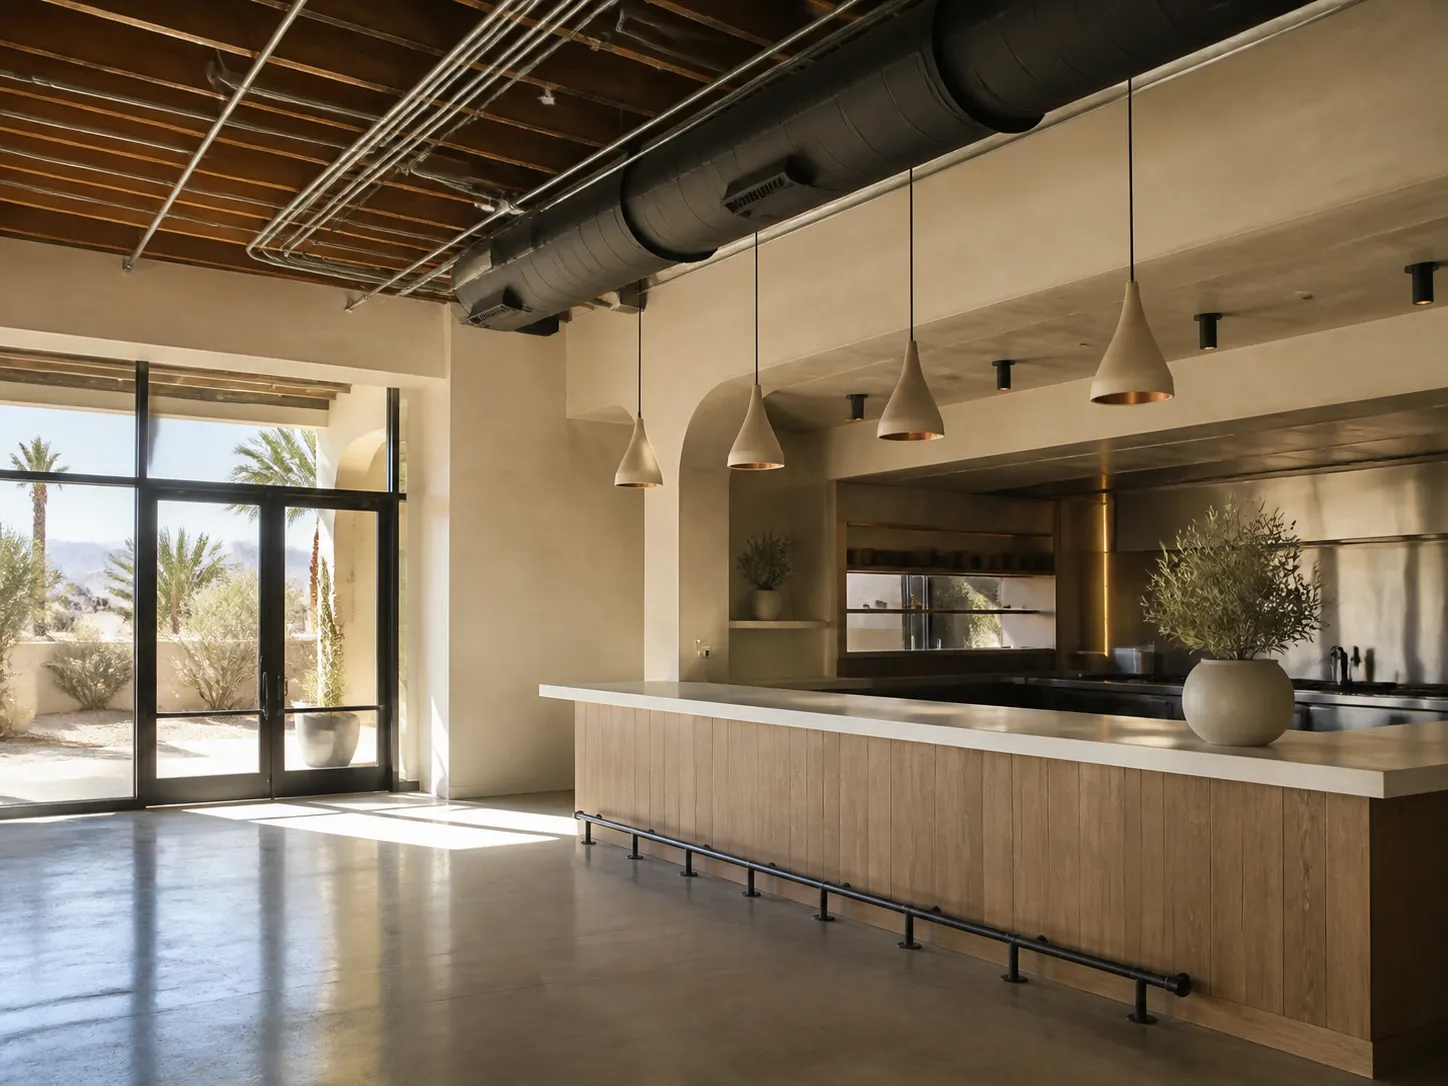
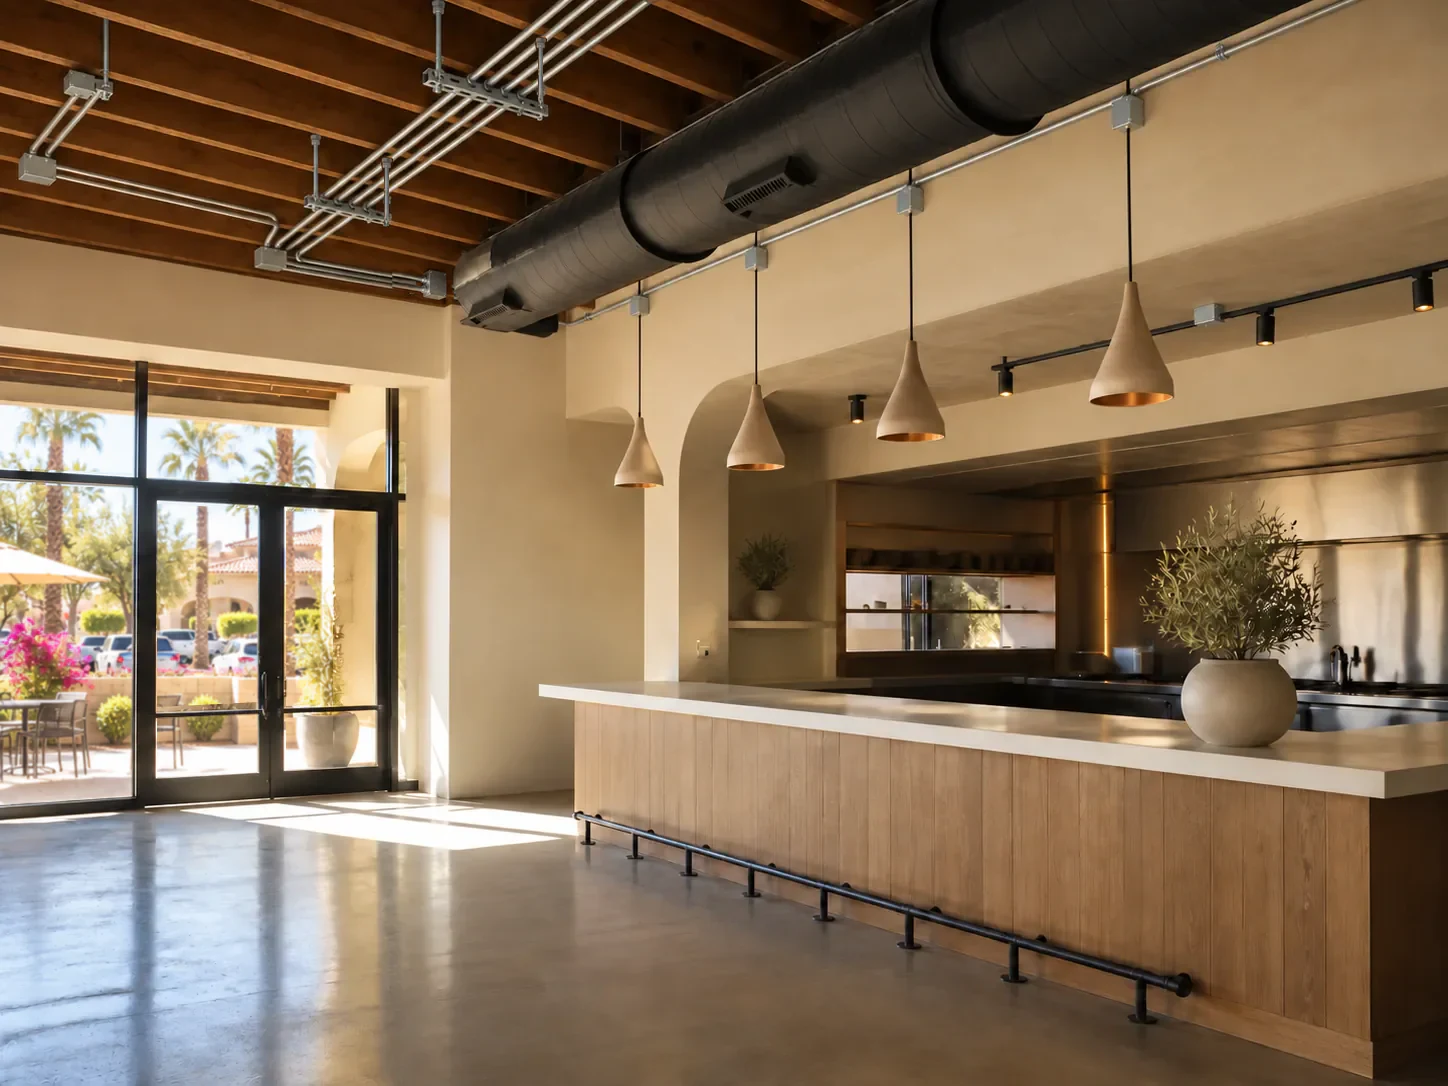
Replace five service photos with realistic Coachella Valley shots
Regenerated electrical systems, EV charging, panel upgrades, commercial,
and inspections images with code-plausible equipment and established
neighborhood backgrounds, updated their alt text, and set the service
image width/height to the photos' real 1448x1086.

diff --git a/src/data/site.ts b/src/data/site.ts
@@ -8,7 +8,7 @@ export const services = [
     statementTitle: "Built in, not bolted on.",
     summary: "Panels, wiring, and complete electrical systems for the whole property.",
     image: "/images/services/electrical-systems.webp",
-    alt: "Organized parallel conduit runs inside a new desert construction wall",
+    alt: "Yellow and white NM-B wiring and blue electrical boxes in a wood-framed desert home",
     proofImage: "/images/electrical-systems.webp",
     proofAlt: "Electrician completing a carefully organized electrical panel installation",
     intro:
@@ -81,7 +81,7 @@ export const services = [
     statementTitle: "The charger is the easy part.",
     summary: "Level 2 charging planned around service capacity, routing, parking, and inspection requirements.",
     image: "/images/services/ev-charger-installation.webp",
-    alt: "Matte black Level 2 EV charger in a desert-modern carport",
+    alt: "Wall-mounted EV charger with a separate cable hook and holster in a desert carport",
     proofImage: "/images/proof/ev-charger-hardwired-240.webp",
     proofAlt: "Hardwired Level 2 charger with conduit, disconnect, and a labeled 240-volt junction box",
     intro:
@@ -154,7 +154,7 @@ export const services = [
     statementTitle: "Capacity first, hardware second.",
     summary: "Modernize the electrical backbone before new loads turn into nuisance trips or unsafe workarounds.",
     image: "/images/services/panel-service-upgrades.webp",
-    alt: "Modern residential electrical panel on a clean stucco wall",
+    alt: "Outdoor meter-main with an open breaker door and PVC conduit on a desert home's stucco wall",
     proofImage: "/images/proof/service-upgrade.webp",
     proofAlt: "Open service equipment with organized conductors and upgraded components",
     intro:
@@ -300,7 +300,7 @@ export const services = [
     statementTitle: "The business keeps running.",
     summary: "Lighting, equipment circuits, repairs, and upgrades sequenced around operating businesses.",
     image: "/images/services/commercial-electrical.webp",
-    alt: "Upscale desert commercial interior with orderly conduit and pendant lighting",
+    alt: "Oak-fronted desert restaurant counter beneath supported ceiling conduit and pendant lights",
     proofImage: "/images/proof/commercial-service.webp",
     proofAlt: "Commercial electrical service equipment in a working space",
     intro:
@@ -373,7 +373,7 @@ export const services = [
     statementTitle: "A clear picture before the estimate.",
     summary: "Practical checks for older homes, remodels, rentals, equipment changes, and visible safety concerns.",
     image: "/images/services/electrical-inspections.webp",
-    alt: "Multimeter and receptacle tester arranged on a closed electrical panel",
+    alt: "Gloved hand using a voltage tester at an open panel beside a plugged-in receptacle tester",
     proofImage: "/images/proof/electrical-inspection.webp",
     proofAlt: "Electrician inspecting electrical equipment with a handheld meter",
     intro:
